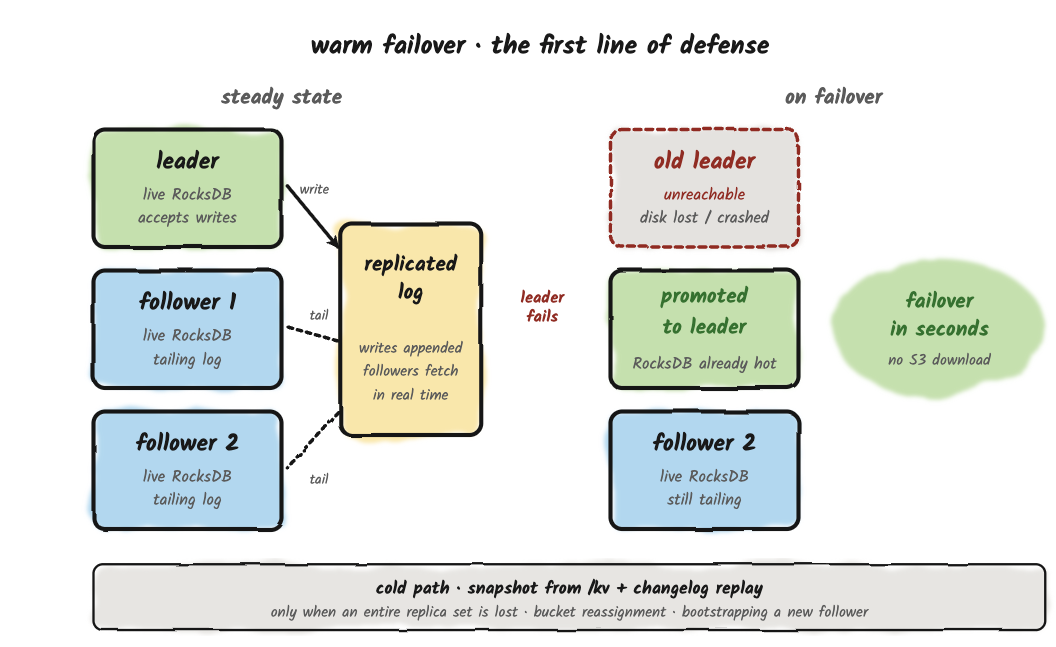
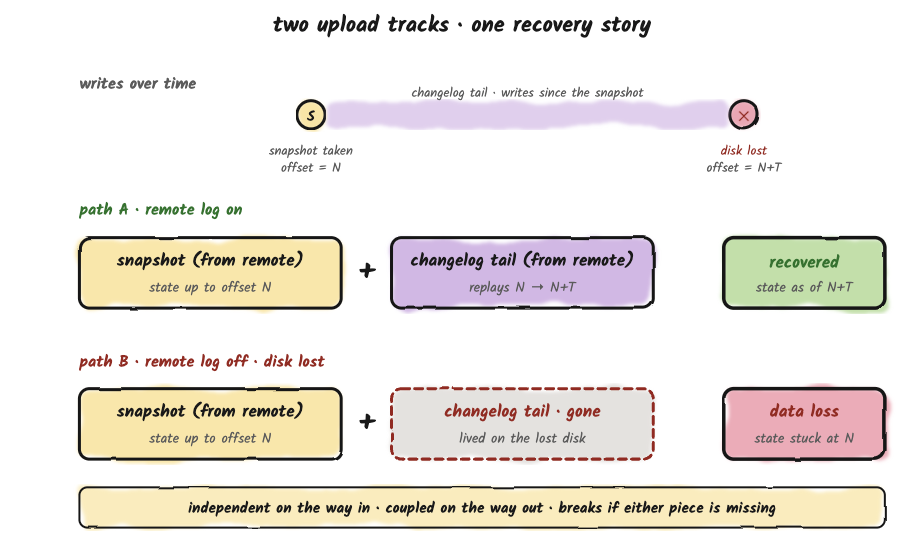
update text

diff --git a/blog/2026-06-02-fluss-storage-hierarchy.md b/blog/2026-06-02-fluss-storage-hierarchy.md
@@ -3,213 +3,164 @@ slug: fluss-storage-hierarchy
 title: "The Storage Hierarchy: Hot, Remote, and Lake"
 date: 2026-06-02
 authors: [giannis]
-image: ./assets/column_pruning/banner.png
+image: ./assets/storage_hierarchy/banner.png
 ---
 
 ![Banner](assets/storage_hierarchy/banner.png)
 
-## Three-Tier Storage Hierarchy
-Fluss organizes its storage into three tiers. Each tier has a different latency profile,
-a different data format, and different rules governing when data can be deleted.
-Understanding which tier holds which data at any moment is the foundation for
-things like capacity planning, latency expectations, correct read-path design, and disaster recovery all depend on it.
+**Apache Fluss stores data in three places:** local disk on the tablet server, remote object storage like S3, and the lakehouse. Which place holds which data at any given moment, and what is responsible for moving it between them, is the foundation everything else rests on. Your capacity plan depends on it. Your latency targets depend on it. Your disaster-recovery story depends on it. So does your ability to predict, in advance, that a particular configuration change is going to fill up local disk a week later.
+
 <!-- truncate -->
 
-The first tier is **local disk on the tablet server**. It holds the hot data: recent log
-segments, the full live RocksDB KV state for every primary key table, and a local
-view of the most recent KV snapshots (which exist as hard links to live SST files
-while uploads are in flight). Reads from this tier are microseconds to milliseconds.
+This post walks through that layering. We'll cover what each tier holds, the two background tasks that move data between them, what changes for primary-key tables, and how recovery actually works when a tablet server loses its disk. By the end you should be able to look at a Fluss deployment and say, for any given record, where it lives right now and where it will live in an hour.
 
-The second tier is **remote object storage** (like S3), used for two distinct
-purposes that share the same `remote.data.dir` filesystem: (a) older log segments
-uploaded by the remote-log tiering task in Fluss's native binary format, extending
-local retention without growing local disk, and (b) durable KV snapshots for every
-primary key table, uploaded periodically so that a tablet server can recover after
-disk loss. Remote log storage is **enabled by default**: it is controlled by
-`remote.log.task-interval-duration (default 1min)`, and is disabled only when that
-value is `set to 0`. KV snapshot
-upload is independent of remote-log tiering and is governed by
-`kv.snapshot.interval (default 10min)` .
+## The Three-Tier Storage Hierarchy
 
-The third tier is **the lakehouse** (Paimon, Iceberg, Hudi (WIP), or Lance), holding
-data in analytical file formats queryable by any engine. Reads from the lakehouse
-take seconds. **The lakehouse is never on the Fluss server's read or recovery path.**
+**Tier 1 is local disk on the tablet server.** It holds the hot data: recent log segments, the full live RocksDB state for every primary-key table, and a staging view of the most recent KV snapshots (hard links to live SST files while uploads are in flight). Reads from this tier are in milliseconds.
 
-> **On single-copy storage.** Apache Fluss is single-copy in steady state: hot data on the
-server, cold data in the lakehouse, no permanent duplication.
-> **The one exception:**
-when lakehouse tiering is enabled, a remote log segment is only deleted once **both**
-its TTL has expired **and** the lakehouse has ingested it, a safety net against
-lakehouse lag. This creates a bounded window where the same data lives in both
-Tier 2 and Tier 3, governed by `table.log.ttl` (default 7 days). Shorten it if strict
-single-copy matters more than a long catch-up window. The overlap is a configurable,
-time-bounded transition, **not another copy**.
+**Tier 2 is remote object storage** (S3, GCS, or similar), used for two distinct purposes that share the same `remote.data.dir` filesystem. **First:** older log segments uploaded by the `remote-log tiering task` in Fluss's native binary format, which extends local retention without growing local disk. **Second:** durable KV snapshots for every primary-key table, uploaded periodically so that a tablet server can recover after disk loss.
+
+Remote log storage is **enabled by default**. It's controlled by `remote.log.task-interval-duration` (default `1min`), and is only disabled when that value is set to `0`. KV snapshot upload is independent of remote-log tiering and is governed by `kv.snapshot.interval` (default `10min`). Note that `remote.data.dir` itself has no default — you must configure it before either of these tracks can do anything useful.
+
+**Tier 3 is the lakehouse.** Paimon, Iceberg, Hudi, or Lance are holding data in analytical file formats queryable by any engine. Reads from the lakehouse cost seconds.
 
 ![](assets/storage_hierarchy/fig1.png)
 
-## Log Table Data Lifecycle
+### A Note On Single-Copy Storage
 
-A log table's data on local disk is organized as log segments. 
-Pairs of a `.log file` (raw records) and an `.index file` (offset index for fast seek). 
-The active segment is open for appends; all others are immutable and named by their starting offset. 
-What happens to these segments after they are written is governed by a single retention TTL (`table.log.ttl, default 7 days`) that defines the lifetime of log data in the table, plus, when remote tiering is enabled 
-and a count-based local-side override (`table.log.tiered.local-segments, default 2`) that keeps a minimum hot window on local disk regardless of TTL.
+**Fluss is single-copy in steady state.** Hot data lives on the server, cold data lives in the lakehouse, and there is no permanent duplication.
+
+**There is only one small exception**, when lakehouse tiering is enabled, a remote log segment is only deleted once **both** its TTL has expired **and** the lakehouse has ingested it. That's a safety net against lakehouse lag, and it creates a bounded window where the same data lives in both Tier 2 and Tier 3 simultaneously, governed by `table.log.ttl` (default 7 days). Shorten the TTL if strict single-copy matters more to you than a long lakehouse catch-up window. 
+
+The overlap is a configurable, time-bounded transition, **not another copy** of your data.
+
+## Log Tables on Local Disk
+
+A log table on disk is a sequence of log segments. Each segment is a `.log` file holding raw records alongside a small set of companion files: a `.index` offset index and a `.timeindex` time index for fast seek, plus per-segment writer-state snapshots used for idempotent producers. The active segment is open for appends; every other segment is immutable and named by its starting offset.
+
+What happens to those sealed segments is governed by two retention controls.
+
+`table.log.ttl` (default 7 days) is the global retention contract for the log. It defines the maximum age of any log data in the table, regardless of which tier it currently lives on.
+
+`table.log.tiered.local-segments` (default 2) is a count-based floor for local disk, only meaningful when remote-log tiering is on. The remote-log task keeps at least this many recent segments on local disk after upload, so consumers reading near the head don't pay an S3 round-trip for the freshest data.
+
+A segment becomes a candidate for upload **the moment it is sealed and its records are below the high watermark** (i.e., committed/acked). Sealing happens when the active segment hits its size threshold, fills the offset or time index, or can no longer encode records as relative offsets, and then rolls over: Fluss closes the current active segment (which becomes immutable) and opens a new one for subsequent writes. The freshly-closed segment is now something the remote-log task can pick up on its next pass. This is the same model Kafka uses for tiered storage, and it has the same operational consequence: **data sitting in the active segment lives only on the local Fluss server until rollover**, which means the active segment's size threshold sets a lower bound on how recent your "remote-only" reads can be.
+
+### What remote-log Tiering Actually Does
+
+By default, remote-log tiering is on (`remote.log.task-interval-duration=1min`) and TTL is 7 days. The remote-log task does three things on each pass:
+
+1. Uploads newly-sealed segments to S3.
+2. Advances the local log's `remoteLogEndOffset`, which causes the local log to trim every sealed segment now in S3, keeping at least `table.log.tiered.local-segments` recent ones.
+3. Deletes S3 segments past TTL.
 
 ![](assets/storage_hierarchy/fig2.png)
 
-A segment becomes a candidate for upload to remote storage **only after it is sealed**.
-Once Fluss closes it and stops accepting writes into it. 
-The active segment, by definition, is still open, so the tiering task will not touch it. 
-When the active segment hits its size threshold it rolls over: Fluss seals the current active segment (which becomes immutable) and opens a new active segment for subsequent writes. 
-The freshly-sealed one is now a candidate the tiering task can pick up on its next round. 
-This is the same model Kafka uses for its tiered storage. 
+Local disk is bounded primarily by the count-based floor, usually a handful of recent segments. The TTL value applies most visibly on the S3 side, because S3 is where data lives the longest.
 
-**The end result:** **data sitting in the active segment lives only on the local Fluss server until rollover**, which is why the active segment's size threshold acts as a lower bound on how recent your "remote-only" reads can be.
+### Disabling Remote Tiering
 
-### Two paths, one critical difference
-By default, remote log storage is active `(remote.log.task-interval-duration=1 min)` and the per-table TTL `(table.log.ttl)` defaults to 7 days. 
-The TTL is the global retention contract for the log and it defines the maximum age of log data in the table, regardless of which physical tier it lives on. 
-When remote tiering is enabled, the remote-log task implements that contract: it uploads sealed segments to S3, trims local segments down to `table.log.tiered.local-segments` (default: 2) once they have been uploaded, and expires S3 segments past TTL. 
-In this configuration the local-disk footprint is bounded primarily by the count-based keep-N floor (typically a small hot window of recent segments), and the TTL value applies most visibly on the S3 side because that is where data lives longest.
+Setting `remote.log.task-interval-duration=0` opts out of Tier 2 entirely, but this comes with an additional consequence: it also disables the scheduled cleanup task itself, because that task is what runs both the upload and the segment-deletion paths. With the task disabled, **nothing trims local segments**. **There is no automatic fallback to the lakehouse on the write path.**
 
-If you set `remote.log.task-interval-duration=0`, you opt out of Tier 2 entirely and you also opt out of the scheduled cleanup task itself, because that task is what runs both upload and segment deletion. 
-In this mode there is no scheduled component trimming local segments. 
-This is Path A, and **the practical failure mode is unbounded local-disk growth**: eventually the tablet server runs out of disk and write batches start failing with storage exceptions.
-**There is no automatic fallback to the lakehouse on the write path.**
-Running Fluss with the scheduled task disabled is meant for narrow scenarios, it is not the supported steady-state mode, which is why remote log storage ships enabled by default.
+The end result is **unbounded local-disk growth**. Eventually the tablet server runs out of disk and write batches start failing with storage exceptions.
 
 ![](assets/storage_hierarchy/fig3.png)
 
-## Remote Log Storage vs. Lakehouse Tiering
-These two features are independent and are frequently conflated. Each solves a different problem and has a completely different output format.
+## Remote Tiering and Lakehouse Tiering Are Different Features
 
-**Remote log storage** is about disk economics on the tablet server. It copies raw log segments in Fluss's native binary format to S3, extending local retention without growing local disk. The tablet server can read from S3 when a consumer requests an offset that has been trimmed locally. It is managed entirely server-side by a background task. As a side effect it is also **the only mechanism that trims local log segments**.
+These two features are frequently conflated, which is fair because the names suggest a relationship, but they solve different problems and produce different output.
 
-**Lakehouse tiering** is about analytical access. It converts Fluss data into lakehouse-native formats (ORC, Parquet, Lance) and writes them to the lakehouse via an external Flink job (the Tiering Service). The output is queryable by Spark, Trino, and Flink independently of Fluss.
+**Remote tiering** is about disk economics on the tablet server. It copies raw log segments in Fluss's native binary format to S3, extending local retention without growing local disk. The tablet server can then read from S3 when a consumer requests an offset that has been trimmed locally. It's managed entirely server-side, by a background task. As a side effect, it's also **the only mechanism that trims local log segments**.
 
-These are complementary layers, and you can run any combination of them. When both are enabled, the lakehouse confirmation acts as an additional safety gate on top of the TTL-based S3 deletion.
+**Lakehouse tiering** is about analytical access. It converts Fluss data into lakehouse-native formats, like ORC, Parquet, Lance and writes them to the lakehouse via an external Flink job (the Tiering Service). The output is queryable by Spark, Trino, and Flink independently of Fluss.
 
-### Freshness is a cadence, not a guarantee
-`table.datalake.freshness` (default 3 minutes) is the **cadence** at which tiering
-rounds are initiated. **It is not a bound on how stale a lakehouse query result will
-be at the moment you run it.** Inside each round, the tiering service freezes the
-current Fluss log end offset as the stopping offset at split-generation time;
-anything written after that point flows into the next round. Under moderate write
-rates, expect observed staleness in the 3–6 minute range, with spikes during heavy
-bursts. If you need sub-minute freshness, route through the Fluss-aware connector
-path · the lakehouse on its own is fresh enough for analytics, not for live decisioning.
+These are complementary layers. You can run any combination of them. When both are enabled, the lakehouse confirmation acts as an additional safety gate on top of TTL-based S3 deletion: a remote log segment is not expired until TTL has passed and the lake has confirmed it.
 
-## Primary Key Table Data Lifecycle
-A log table has one thing on disk, the log. A primary key table has three. They serve different roles, they live in different places, and they fail in different ways. Operating PK tables without seeing them as three distinct structures is one of the faster routes to a confusing production incident.
+
+## Primary-Key Tables 
+A log table has one thing on disk: the log. A primary-key table has three. They serve different roles, they live in different places, and they fail in different ways. **Operating primary-key tables without seeing them as three distinct structures is one of the faster routes to a confusing production incident.**
+
 ![](assets/storage_hierarchy/fig4.png)
 
-### Structure 1: Live RocksDB
+### Structure 1: Live RocksDB Store
 
-This is the current state of the table. One entry per primary key, always up to date, sitting on the tablet server's local disk in a RocksDB instance. Every point lookup reads from here. Every upsert merges into here. It is created when the tablet opens and deleted only when the table is dropped. Nothing moves it and there is no setting that puts the live state on S3, in the lakehouse, or anywhere else. **RocksDB on local disk is where the work happens, and that's the only place it can happen.**
+This is the current state of the table. One entry per primary key, always up to date, sitting on the tablet server's local disk inside a RocksDB instance. Every point lookup reads from here. Every upsert merges into here. The live store is created when the tablet opens and deleted only when the table is dropped.
 
-The trap is assuming this is also where your data is durably stored. It is not. **The live store is what serves traffic; what survives a disk loss is the snapshot in remote storage (Structure 2).** Two different roles, two different copies, related data.
+Nothing moves the live store. There is no setting that puts it on S3, in the lakehouse, or anywhere else. **RocksDB on local disk is where the work happens, and that's the only place it can happen.**
 
-You need local disk for the full merged state of every bucket the tablet server is responsible for. **The lakehouse cannot stand in for this** and the tablet server doesn't read PK state from the lake under any circumstances.
+The role to understand here is "what serves traffic," not "what is durably stored." **The live store is what serves traffic. What survives a disk loss is the snapshot in remote storage**, which is Structure 2. Two roles, two copies, related data. You need local disk for the full merged state of every bucket the tablet server is responsible for; **the lakehouse cannot stand in for this**, and the tablet server doesn't read PK state from the lake under any circumstance.
 
 ### Structure 2: KV Snapshots
 
-Every ten minutes by default, the tablet server takes a snapshot of the live RocksDB, which is a point-in-time copy that ends up in remote storage. **This is the system's only durable record of the table's current state.** If the tablet server's local disk evaporates, the most recent snapshot is what brings the data back.
+Every ten minutes by default (`kv.snapshot.interval=10min`), the tablet server takes a snapshot of the live RocksDB and writes it to remote storage. **This is the system's only durable record of the table's current state.** If the tablet server's local disk evaporates, the most recent snapshot is what brings the data back.
 
-It helps to understand how a snapshot is actually built, because the mechanics are not where most people guess they are.
+**Step one** happens locally and completes immediately. The tablet server hard-links the current RocksDB SST files into a staging directory. **No bytes are copied, just new pointers to existing files.** This is what lets a snapshot start instantly regardless of how large the table is, because nothing is being duplicated on disk.
 
-Step one happens locally and completes immediately. The tablet server makes hard-link references to the current RocksDB data files into a staging directory. **No bytes get copied · just new pointers to existing files.** This is what lets a snapshot start instantly regardless of how large the table is, because nothing is being duplicated on disk. Step two is the one that actually moves data. Those files plus a bit of metadata get uploaded to remote storage. The remote copy is the durable one; the local staging directory is just there so the uploader sees a frozen, consistent view of the files while RocksDB keeps writing and compacting underneath it. The snapshot is considered durable once the upload finishes.
+**Step two** is the one that actually moves data. Those files, plus a bit of metadata, get uploaded to remote storage. The remote copy is the durable one; the local staging directory is there so the uploader sees a frozen, consistent view of the files while RocksDB keeps writing and compacting underneath it. The snapshot is considered durable once the upload finishes.
 
-Fluss keeps the last two snapshots in remote storage by default. When a new snapshot supersedes an old one, the old one is deleted, with one important guard. If anything (most commonly a long-running lakehouse tiering job) is still reading an older snapshot, a lease prevents the cleanup from removing it underneath the reader. This sounds like a detail, but it becomes load-bearing the first time a large primary key table takes longer to tier than the gap between snapshots and the lease is what keeps the system from racing itself.
+Fluss keeps the last two snapshots in remote storage by default. When a new snapshot supersedes an old one, the old one is deleted, with one guard: if anything (most commonly a long-running lakehouse tiering job on its first round) is still reading the older snapshot, a lease prevents the cleanup from removing it underneath the reader. This sounds like a detail, and it is most of the time. It becomes load-bearing the first time a large primary-key table takes longer to tier than the gap between snapshots, and the lease is what keeps the system from racing itself.
 
-### Structure 3: Changelog Log
+### Structure 3: The Changelog
 
-Every upsert and every delete also gets appended to a log, in the order it happened. This log behaves exactly like a regular log table on disk · same retention rules, same tiering to remote storage, same handoff to the lakehouse.
+Every upsert and every delete also gets appended to a log, in the order it happened. This log behaves exactly like a regular log table on disk, same retention rules, same tiering to remote storage, same handoff to the lakehouse.
 
-Two things make the changelog different from the rest of the table.
+Two things make the changelog different from the rest of the primary-key table.
 
-**It grows with the number of writes, not with the number of unique keys.** A primary key table that updates the same 100 keys ten million times has a small live store and an enormous changelog. RocksDB collapses by key; the log does not. This is what makes the changelog useful as a CDC feed and downstream consumers see every change in order, not just the latest value.
+**It grows with the number of writes, not the number of unique keys.** A primary-key table that updates the same 100 keys ten million times has a small live store and an enormous changelog. RocksDB collapses by key; the log does not. This is what makes the changelog useful as a CDC feed · downstream consumers see every change in order, not just the latest value.
 
-**Deleting old changelog segments has no effect on the live store.** The live store is complete on its own; it doesn't need the log to know the current value of any key. The log is there for replay (when a tablet needs to recover) and for downstream feed (when something is reading change events). It is not a place where state lives.
+**Deleting old changelog segments has no effect on the live store.** The live store is complete on its own; it doesn't need the log to know the current value of any key. The log is there for replay (when a tablet needs to recover) and for downstream feed (when something is reading change events). **It is not a place where state lives.**
 
 ![](assets/storage_hierarchy/fig5.png)
 
+> **Note:** This is a simplified version of the changelog for illustrative purposes. 
 
-### Recovery: Independent Tracks, Coupled Outcomes
+## Recovery: Independent Tracks, Coupled Outcomes
 
-The snapshot uploads and the log uploads look independent from a configuration standpoint · separate settings, separate schedulers, separate places in remote storage. **They are not independent when you actually need to recover from disk loss.**
+The snapshot upload track and the log upload track look independent from a configuration standpoint. Separate settings, separate schedulers, separate remote subdirectories. **They are not independent when you actually need to recover from disk loss.**
 
-Recovery on a fresh tablet server works in two stages. The snapshot brings the live state up to whatever point it was taken at. The changelog then replays every change since that point to catch up to the current moment. If remote log storage is off, that changelog tail lives only on the failed tablet server's local disk · which is the disk you just lost. The snapshot, however durably stored, can only restore the state as of its own offset; everything written since then is gone. **The two upload tracks are independent on the way in. The recovery story stitches them back together on the way out, and breaks if either piece is missing.**
+Recovery on a fresh tablet server works in two stages. The snapshot brings the live state up to whatever point it was taken at. The changelog then replays every change since that point to catch up to the current moment.
 
-One nuance worth ending on, is that most production recoveries aren't full cold restarts.
-
-### Standby Replicas: The Warm Failover Path
-
-Everything we've described so far is the cold-start path; the one that runs when no other copy of a bucket is still alive. In practice, **Fluss replicates each bucket across multiple tablet servers** · one leader handling writes, two or more followers continuously tailing the same log. The followers maintain their own live RocksDB instance, kept current with the leader's in near-real-time.
+If remote-log tiering is off, that changelog tail lives only on the failed tablet server's local disk, which is the disk you just lost. The snapshot, however durably stored, can only restore the state as of its own offset. Everything written since then is gone.
 
 ![](assets/storage_hierarchy/fig6.png)
 
-When the leader fails, the controller picks a follower and promotes it. **That follower's live RocksDB is already current, so traffic resumes in seconds, without S3 download and log replay.** The snapshot path still matters · it's the safety net when an entire replica set is lost at once, when a bucket gets reassigned to a brand-new tablet server, or when you're bootstrapping a fresh follower into the cluster. But that path is the fallback, not the everyday failure handler.
+**The two upload tracks are independent on the way in. The recovery story stitches them back together on the way out, and breaks if either piece is missing.**
 
-This refines the framing of remote storage. Calling it the recovery substrate and the durability floor was accurate. It just isn't the recovery path you exercise most often in healthy production. **The everyday path is one replica picking up where another left off**, which is precisely why running with replication factor 1 in production is a bad idea, however durable your snapshots are.
+## Standby Replicas
 
-## Combining Them
-There are four ways to combine remote log storage and lakehouse tiering. Three
-are useful, one is a trap.
+Everything described so far is the cold-start path; the one that runs when no other copy of a bucket is still alive. Most production recoveries aren't cold restarts.
+
+**Fluss replicates each bucket across multiple tablet servers**: one leader handling writes, plus followers continuously tailing the same log. One of those followers is the designated **standby**, the replica the controller will promote on leader failure, and the one that maintains a live RocksDB kept current with the leader's in near real time.
+
+When the leader fails, the controller promotes the standby. **The standby's live RocksDB is already current, so traffic resumes in seconds, with no S3 download and no log replay.** The snapshot path still matters, it's the safety net when an entire replica set is lost at once, when a bucket gets reassigned to a brand-new tablet server, or when a fresh follower is bootstrapping into the cluster. But that path is the fallback, not the everyday failure handler.
+
+This refines the framing of remote storage. Calling it the recovery substrate and the durability floor was accurate. It just isn't the recovery path you exercise most often in healthy production. **The everyday path is one replica picking up where another left off**, which is precisely why **running with replication factor 1 in production is a bad idea, however durable your snapshots are**.
 
 ![](assets/storage_hierarchy/fig7.png)
 
-**Remote off, lakehouse off.** Local disk only. Viable for development, demos, and
-tables small enough to fit on local disk for the retention you actually want.
-Beyond that, you hit the disk-full failure mode within hours to days.
+## Combining Tiers
 
-**Remote on, lakehouse off.** The most common starting point. Production-grade log
-retention via S3, no analytical projection. Sensible when Fluss is the durable log
-for streaming consumers and not a streaming lakehouse, and a good first step when
-adopting Fluss. Get the storage architecture right before adding analytical features.
+There are four ways to combine **remote-log tiering** and **Lakehouse tiering**. Three are useful; one isn't.
 
-**Remote off, lakehouse on. The trap.** With the remote-log task disabled, nothing
-trims local segments. The lakehouse tiering job ingests through the tablet server
-but does **not** trigger local cleanup as a side effect. Worse, since TTL is enforced
-only on the remote-tiered copy, no time-based retention applies at all: the local
-copy is "everything since the table was created." Local disk grows until writes
-start failing. The lakehouse continues working normally meanwhile, which makes
-this failure mode confusing to debug · everything looks healthy from the analytical
-side until the write path falls over.
+![](assets/storage_hierarchy/fig8.png)
 
-**Remote on, lakehouse on.** The full streaming-lakehouse setup. Logs are tiered to
-S3, snapshots are uploaded to S3, the tiering service produces a lakehouse projection,
-and the lakehouse-confirmation gate adds a second safety layer on top of TTL ·
-remote segments are not expired until the lake has confirmed them. This is the
-configuration Fluss is designed around.
+| Remote | Lakehouse | What you get | When to use                                                                                                                                                           |
+|--------|---|---|-----------------------------------------------------------------------------------------------------------------------------------------------------------------------|
+| **Off**  | **Off** | Local disk only. Bounded by physical local-disk size. | **Don't run this configuration in production :)**                                                                                                                                             |
+| **On**     | **Off** | Production-grade log retention via S3. No analytical projection. | The most common starting point. Sensible when Fluss is the durable log for streaming consumers, not yet a streaming lakehouse. A good first step when adopting Fluss. |
+| **Off**    | **On**  | Lakehouse works normally; local disk grows until writes start failing. The remote-log task is what trims local segments, and disabling it means nothing trims them. | **Don't run this configuration in production :)**                                                                                                                     |
+| **On**     | **On**  | Full streaming-lakehouse setup. Logs are tiered to S3, snapshots are uploaded to S3, the Tiering Service produces the lakehouse projection, and the lake-confirmation gate stacks on top of TTL. | The configuration Fluss is designed around.                                                                                                                           |
 
-The PK snapshot track is orthogonal to all of this. It runs on its own cadence
-(`kv.snapshot.interval`, default 10 minutes), writes to its own remote subdirectory
-(`/kv`), and is what makes PK tables recoverable after disk loss. Disabling remote
-log storage does **not** disable KV snapshot upload. Three independent tracks,
-three independent config keys · the configuration vocabulary does not make this
-obvious.
+The primary-key snapshot track is orthogonal to all of this. It runs on its own cadence (`kv.snapshot.interval`, default 10 minutes), writes to its own remote subdirectory (`/kv`), and is what makes primary-key tables recoverable after disk loss. **Disabling remote-log tiering does not disable KV snapshot upload.** Three independent tracks, three independent config keys · the configuration vocabulary does not make this obvious, but the runtime behavior does.
 
 ## Closing Thoughts
-Fluss's storage layer is structurally simple · three tiers, two background tasks ·
-but the simplicity hides the trap. Tier 1 looks like the only tier that matters
-because it is the only one on the live query path. Tier 2 looks like an
-implementation detail because it is "just S3". Tier 3 looks like a destination
-because it is the lakehouse, where data goes to be queried by everything that is
-not Fluss. Each of these mental shortcuts is wrong in a specific way that only
-bites after you have configured something based on it.
 
-The mental model that holds up is the one this post argued for. Three tiers
-with three different jobs and three different persistence semantics. Two background
-tasks that move data out of Tier 1 for two unrelated reasons · disk economics
-and cross-engine analytical access · and which you should reason about
-independently. A small set of configuration knobs whose defaults are deliberately
-the right starting point: remote log storage on, snapshots every ten minutes,
-seven-day TTL, three-minute lakehouse freshness target. **Disabling things is almost
-always the wrong move.** Tuning the knobs to match your actual workload is the
-right one.
+Fluss's storage layer is structurally simple -- three tiers, two background tasks -- and the simplicity is what makes it easy to misread. 
 
-Part two of this series goes inside the tiering service itself · the Flink job
-that produces the lakehouse projection, its coordinator state machine, the
-conditions under which large PK tables struggle to complete a first round, and
-what to watch for in steady state. Read on when you're ready.
+* **Tier 1** looks like the tier that matters, because it's the only one on the live query path. 
+* **Tier 2** looks like an implementation detail, because it's **"just S3"**. 
+* **Tier 3** looks like a destination, because it's the lakehouse. Each shortcut is wrong in a way that only becomes visible after you've configured something based on it.
 
+The model here is: three tiers with three different jobs, two background tasks that should be reasoned about independently, a small set of defaults deliberately tuned for production. 
+
+Disabling those defaults is almost always the wrong move. Tuning them to your workload is almost always the right one. 🌊